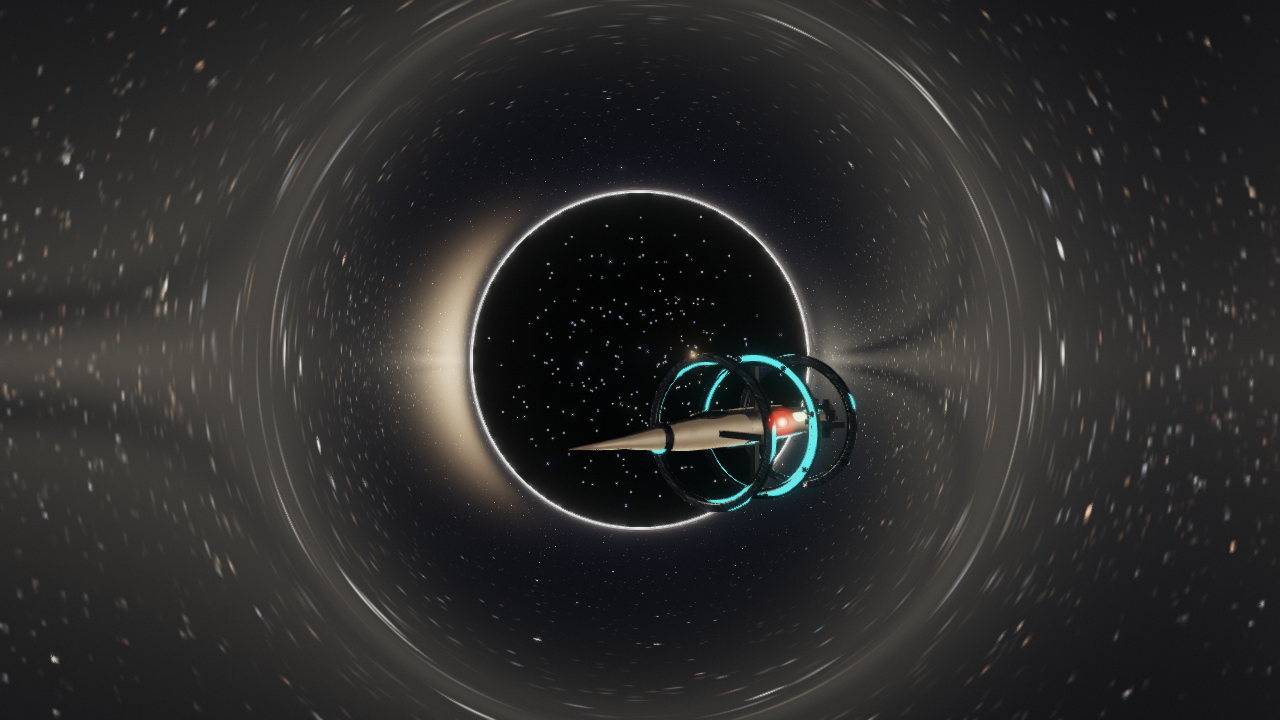
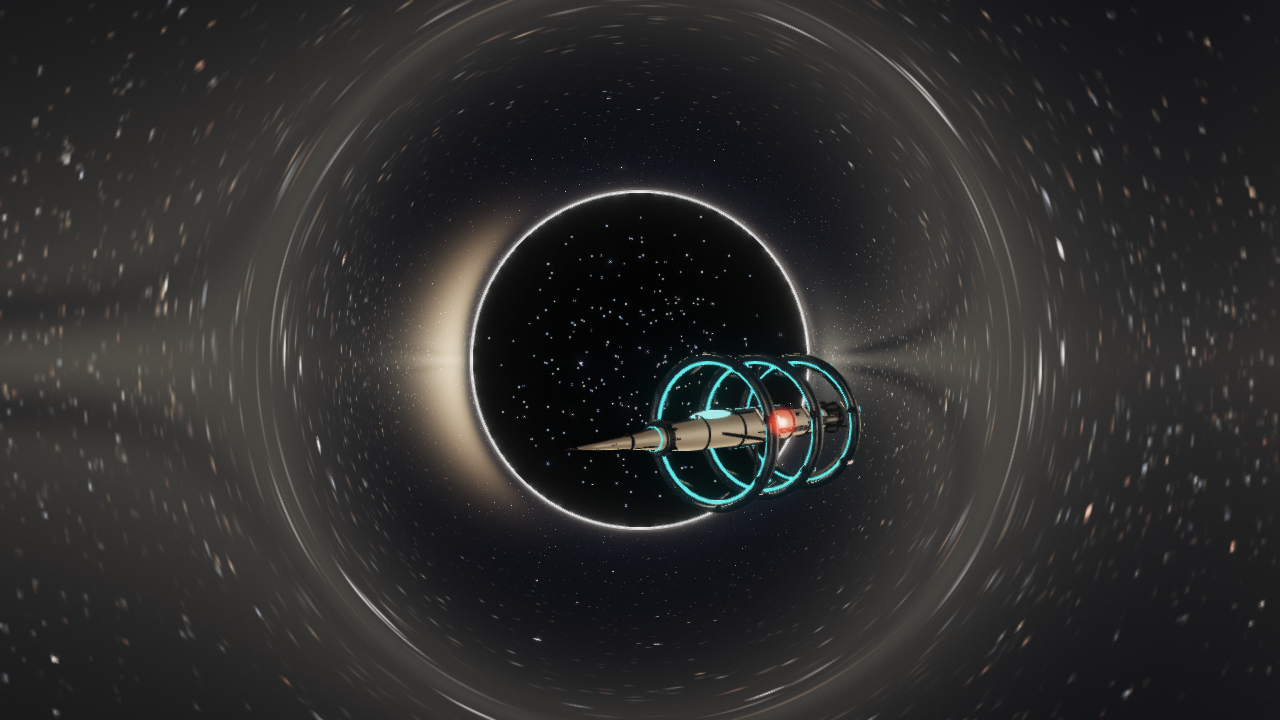
feat(ship): ring ship reference detail pass and stern axis fix
The tri-ring cruiser was the last hull still reading flat: 10 962 triangles of
bare torus and needle, with the propulsion cluster aimed the wrong way.

- fix #199: main nozzle, plasma disc and all six attitude bells used
  rotation=(pi/2,0,0), which points them down, not aft - same defect class as
  #189, which never covered this script
- add ring_ship_details(): coil collars, 16 windings and 8 braking calipers per
  ring with capped emitter heads, hull banding and keel stringers, pitot with
  sensor louvres and mast, deflector lip with 10 focusing vanes and a field
  ring, cupola ribs/sill/visor, conduit clamps, a 10-fin ventral radiator
  field, and a stern with gimbal, feed lines, CTV rings, tail plug, OMS pods,
  RCS bells and an aft mast. 10 962 -> 27 206 triangles
- enforce the shader coupling: ship.vert spins only vertices beyond r=0.372
  inside three z-slabs, while normalization divides by the bounding-box
  length, so nose or stern overhang silently slides the rings out of their
  spin bands. The generator now recomputes each ring's normalized z after
  centering and raises if it left its slab; the pitot and tail plug were
  pulled back inside the original hull extent to keep the mapping stable
- four static checks: detail pass wired, nozzle axis fixed, guard present,
  guard ranges pinned against the shader

Verified: generator prints "Ring spin slabs: all three rings inside their
shader bands"; an independent measurement of the exported OBJ finds 14 476
[…]

Changed region(s): [[0.5, 0.4889, 0.6875, 0.7028]]

diff --git a/blender/scripts/generate_ring_ship.py b/blender/scripts/generate_ring_ship.py
@@ -265,6 +265,211 @@ def bake_pbr_set(obj, base_path, tex_size=2048):
 # ---------------------------------------------------------------------------
 # Geometry Builder: Ring Ship (Style 1)
 # ---------------------------------------------------------------------------
+# ---------------------------------------------------------------------------
+# Detail pass primitives (same contract as generate_ships.py after #189).
+# Frame of this hull: -Z is the nose, +Z aft, +Y up, X spanwise. Cylinder, cone
+# and torus primitives are born on their local Z, so rot=(0,0,0) already aims
+# them fore-aft; (half,0,0) tips them DOWN, (-half,0,0) UP, (0,+-half,0) out
+# the sides.
+#
+# Ring Ship has one constraint the other hulls do not: shaders/ship.vert spins
+# only vertices with length(xy) >= 0.372, and only inside three z-slabs of the
+# NORMALIZED mesh ([-0.36,-0.10], [0.14,0.31], [0.57,0.76]) - the three rings.
+# Anything outboard of r=0.366 therefore has to stay within +-0.09 of a ring
+# centre (-0.44, 0.0, +0.44 pre-normalize) or the ring tears; everything else
+# must stay inboard of 0.366 so the static pylons keep their grip.
+# ---------------------------------------------------------------------------
+def r_box(name, loc, dims, rot=(0.0, 0.0, 0.0), mat=None, parts=None):
+    bpy.ops.mesh.primitive_cube_add(size=1.0, location=loc)
+    o = bpy.context.active_object
+    o.name = name
+    o.scale = dims
+    if any(rot):
+        o.rotation_euler = rot
+    bpy.ops.object.transform_apply(scale=True, rotation=True)
+    if mat:
+        o.data.materials.append(mat)
+    if parts is not None:
+        parts.append(o)
+    return o
+
+
+def r_cyl(name, loc, r, depth, rot=(0.0, 0.0, 0.0), segs=24, mat=None, parts=None):
+    bpy.ops.mesh.primitive_cylinder_add(vertices=segs, radius=r, depth=depth,
+                                        location=loc, rotation=rot)
+    o = bpy.context.active_object
+    o.name = name
+    if mat:
+        o.data.materials.append(mat)
+    if parts is not None:
+        parts.append(o)
+    return o
+
+
+def r_cone(name, loc, r1, r2, depth, rot=(0.0, 0.0, 0.0), segs=24, mat=None, parts=None):
+    bpy.ops.mesh.primitive_cone_add(vertices=segs, radius1=r1, radius2=r2,
+                                    depth=depth, location=loc, rotation=rot)
+    o = bpy.context.active_object
+    o.name = name
+    if mat:
+        o.data.materials.append(mat)
+    if parts is not None:
+        parts.append(o)
+    return o
+
+
+def r_torus(name, loc, major, minor, rot=(0.0, 0.0, 0.0), segs=48, sides=12,
+            mat=None, parts=None):
+    bpy.ops.mesh.primitive_torus_add(major_radius=major, minor_radius=minor,
+                                     major_segments=segs, minor_segments=sides,
+                                     location=loc, rotation=rot)
+    o = bpy.context.active_object
+    o.name = name
+    if mat:
+        o.data.materials.append(mat)
+    if parts is not None:
+        parts.append(o)
+    return o
+
+
+def ring_ship_details(parts, M):
+    """Reference pass for the Alcubierre tri-ring cruiser: hull banding, sensor
+    and deflector hardware, cupola framing, conduit clamps, radiator field,
+    per-ring coil and braking hardware and a full stern cluster. Everything is
+    real geometry, so the silhouette survives without textures."""
+    hull, accent, coil = M["hull"], M["accent"], M["coil"]
+    emitter, cockpit, engine, plasma = M["emitter"], M["cockpit"], M["engine"], M["plasma"]
+    half = math.pi / 2
+    ring_z = (-0.44, 0.0, 0.44)
+
+    # 1. Fuselage banding and keel stringers (inboard, static)
+    for z, r in ((-1.05, 0.036), (-0.80, 0.070), (-0.55, 0.094), (-0.25, 0.104),
+                 (0.00, 0.107), (0.25, 0.104), (0.45, 0.097), (0.60, 0.090),
+                 (0.72, 0.078)):
+        r_torus(f"RingArt_band_{z:+.2f}", (0.0, 0.0, z), r + 0.004, 0.006,
+                segs=32, sides=6, mat=accent, parts=parts)
+    for side in (-1.0, 1.0):
+        r_box(f"RingArt_keel_{side:+.0f}", (side * 0.086, 0.0, 0.02),
+              (0.006, 0.012, 1.10), mat=accent, parts=parts)
+
+    # 2. Nose: pitot boom, sensor louvres, forward mast
+    # The pitot stays inside the original nose tip (z=-1.42) and the stern plug
+    # inside the old aux-plasma extent (z=+0.849): normalization divides by the
+    # bounding-box length, so detail that sticks out at either end slides all
+    # three rings out of the spin slabs in shaders/ship.vert. Checked below.
+    r_cyl("RingArt_pitot", (0.0, 0.0, -1.30), 0.006, 0.24, segs=10, mat=accent, parts=parts)
+    r_cone("RingArt_pitotTip", (0.0, 0.0, -1.40), 0.006, 0.001, 0.04,
+           rot=(math.pi, 0.0, 0.0), segs=10, mat=hull, parts=parts)
+    for k, z in enumerate((-1.16, -1.02, -0.90)):
+        r_box(f"RingArt_sensorVane_{k}", (0.0, 0.0, z), (0.052 - k * 0.006, 0.004, 0.030),
+              mat=accent, parts=parts)
+    for side in (-1.0, 1.0):
+        r_cyl(f"RingArt_noseAnt_{side:+.0f}", (side * 0.030, -0.030, -0.98), 0.004, 0.16,
+              rot=(0.0, side * 0.30, 0.0), segs=8, mat=accent, parts=parts)
+
+    # 3. Forward deflector collar: lip, vanes and focusing ring
+    r_torus("RingArt_deflLip", (0.0, 0.0, -0.855), 0.086, 0.010, segs=28, sides=8,
+            mat=coil, parts=parts)
+    for k in range(10):
+        a = k * math.tau / 10
+        r_box(f"RingArt_deflVane_{k}", (0.082 * math.cos(a), 0.082 * math.sin(a), -0.80),
+              (0.020, 0.006, 0.050), rot=(0.0, 0.0, a), mat=accent, parts=parts)
+    r_torus("RingArt_deflField", (0.0, 0.0, -0.88), 0.062, 0.005, segs=24, sides=6,
+            mat=emitter, parts=parts)
+
+    # 4. Cockpit cupola: frame ribs, sill and sunshade
+    for k, z in enumerate((-0.50, -0.42, -0.34, -0.28)):
+        r_box(f"RingArt_cupolaRib_{k}", (0.0, 0.086, z), (0.058 - k * 0.004, 0.040, 0.006),
+              mat=accent, parts=parts)
+    r_box("RingArt_cupolaSill", (0.0, 0.062, -0.545), (0.070, 0.020, 0.010),
+          mat=hull, parts=parts)
+    r_box("RingArt_cupolaVisor", (0.0, 0.090, -0.575), (0.062, 0.030, 0.008),
+          rot=(0.42, 0.0, 0.0), mat=accent, parts=parts)
+
+    # 5. Spine conduit clamps and ventral radiator field (inboard, static)
+    for side_y in (1.0, -1.0):
+        tag = "D" if side_y > 0 else "V"
+        for k, z in enumerate((-0.24, -0.08, 0.08, 0.24)):
+            r_box(f"RingArt_conduitClamp_{tag}_{k}", (0.0, side_y * 0.112, z),
+                  (0.034, 0.008, 0.014), mat=accent, parts=parts)
+    for side in (-1.0, 1.0):
+        for k in range(5):
+            z = -0.10 + k * 0.11
+            r_box(f"RingArt_radiator_{side:+.0f}_{k}", (side * 0.150, -0.020, z),
+                  (0.130, 0.004, 0.070), rot=(0.0, side * 0.18, 0.0), mat=accent,
+                  parts=parts)
+            r_box(f"RingArt_radFin_{side:+.0f}_{k}", (side * 0.150, -0.020, z),
+                  (0.130, 0.014, 0.006), rot=(0.0, side * 0.18, 0.0), mat=hull,
+                  parts=parts)
+
+    # 6. Per-ring hardware. Coil collars, braking calipers and node caps all sit
+    # within +-0.09 of the ring centre so the shader spin band keeps them rigid.
+    for r_idx, rz in enumerate(ring_z):
+        tag = f"R{r_idx + 1}"
+        r_torus(f"RingArt_coilCollarA_{tag}", (0.0, 0.0, rz - 0.030), 0.42, 0.014,
+                segs=56, sides=8, mat=coil, parts=parts)
+        r_torus(f"RingArt_coilCollarB_{tag}", (0.0, 0.0, rz + 0.030), 0.42, 0.014,
+                segs=56, sides=8, mat=coil, parts=parts)
+        for k in range(16):
+            a = k * math.tau / 16
+            r_box(f"RingArt_coilWinding_{tag}_{k}",
+                  (0.42 * math.cos(a), 0.42 * math.sin(a), rz),
+                  (0.014, 0.014, 0.062), rot=(0.0, 0.0, a), mat=accent, parts=parts)
+        # Braking calipers grip the ring from inside at r=0.358 (< 0.366 static)
+        for k in range(8):
+            a = k * math.tau / 8 + math.tau / 16
+            r_box(f"RingArt_brake_{tag}_{k}",
+                  (0.358 * math.cos(a), 0.358 * math.sin(a), rz),
+                  (0.026, 0.026, 0.020), rot=(0.0, 0.0, a), mat=hull, parts=parts)
+        # Node caps turn each bare cylinder into a tuned emitter head
+        for k in range(8):
+            a = k * math.pi / 4.0
+            nx, ny = 0.42 * math.cos(a), 0.42 * math.sin(a)
+            r_cyl(f"RingArt_nodeCap_{tag}_{k}", (nx, ny, rz + 0.038), 0.020, 0.012,
+                  segs=14, mat=emitter, parts=parts)
+            r_cyl(f"RingArt_nodeBase_{tag}_{k}", (nx, ny, rz - 0.038), 0.022, 0.010,
+                  segs=14, mat=accent, parts=parts)
+
+    # 7. Aft ring service bridge and strobes (inside slab 3, so it spins with R3)
+    r_torus("RingArt_aftServiceRing", (0.0, 0.0, 0.44), 0.376, 0.006,
+            segs=48, sides=6, mat=accent, parts=parts)
+    for side in (-1.0, 1.0):
+        r_box(f"RingArt_strobe_{side:+.0f}", (side * 0.435, 0.0, 0.485),
+              (0.014, 0.020, 0.010), mat=plasma, parts=parts)
+
+    # 8. Stern cluster: gimbal, feed lines, CTV rings, tail cone and RCS
+    r_torus("RingArt_mainGimbal", (0.0, 0.0, 0.74), 0.070, 0.008, segs=24, sides=6,
+            mat=accent, parts=parts)
+    for k in range(3):
+        a = k * math.tau / 3
+        r_cyl(f"RingArt_feedLine_{k}", (0.052 * math.cos(a), 0.052 * math.sin(a), 0.70),
+              0.010, 0.16, segs=10, mat=accent, parts=parts)
+    for k in range(6):
+        a = k * math.tau / 6
+        cx, cy = 0.088 * math.cos(a), 0.088 * math.sin(a)
+        r_torus(f"RingArt_auxCTV_{k}", (cx, cy, 0.845), 0.034, 0.004, segs=16, sides=6,
+                mat=accent, parts=parts)
+    r_cone("RingArt_tailPlug", (0.0, 0.0, 0.80), 0.020, 0.040, 0.10, segs=18,
+           mat=engine, parts=parts)
+    for side in (-1.0, 1.0):
+        r_cyl(f"RingArt_omsPod_{side:+.0f}", (side * 0.115, 0.0, 0.66), 0.028, 0.14,
+              segs=16, mat=hull, parts=parts)
+        r_cone(f"RingArt_omsBell_{side:+.0f}", (side * 0.115, 0.0, 0.76), 0.014, 0.024,
+               0.06, segs=14, mat=engine, parts=parts)
+    for z in (0.30, 0.52):
+        for side in (-1.0, 1.0):
+            r_cone(f"RingArt_rcs_{z:+.2f}_{side:+.0f}", (side * 0.098, 0.060, z),
+                   0.008, 0.016, 0.030, rot=(-half, 0.0, 0.0), segs=10, mat=engine,
+                   parts=parts)
+    r_cyl("RingArt_aftMast", (0.0, 0.118, 0.58), 0.005, 0.14, rot=(-half, 0.0, 0.0),
+          segs=8, mat=accent, parts=parts)
+
+    # 9. Formation lights along the spine and ventral strip
+    for z in (-0.30, 0.02, 0.34):
+        r_box(f"RingArt_formationD_{z:+.2f}", (0.0, 0.122, z), (0.050, 0.004, 0.010),
+              mat=plasma, parts=parts)
+
+
 def build_ring_ship():
     print("\n================ Building Ring Ship (Style 1) ================")
     bpy.ops.wm.read_factory_settings(use_empty=True)
@@ -439,14 +644,17 @@ def build_ring_ship():
 
     # 7. Stern Sublight Propulsion Cluster
     # 7a. Central Main Engine Nozzle
-    bpy.ops.mesh.primitive_cone_add(vertices=24, radius1=0.065, radius2=0.095, depth=0.18, location=(0.0, 0.0, 0.82), rotation=(math.pi/2, 0.0, 0.0))
+    # Identity rotation: the fuselage length is the Z axis (nose at -Z), so a
+    # bell born on local Z already points aft. The old rotation=(pi/2,0,0) aimed
+    # it down instead - same defect class as #189, caught here by #199.
+    bpy.ops.mesh.primitive_cone_add(vertices=24, radius1=0.065, radius2=0.095, depth=0.18, location=(0.0, 0.0, 0.82))
     main_noz = bpy.context.active_object
     main_noz.name = "Ring_MainNozzle"
     main_noz.data.materials.append(m_engine)
     parts.append(main_noz)
 
     # Main Engine Plasma Disc
-    bpy.ops.mesh.primitive_cylinder_add(vertices=24, radius=0.058, depth=0.02, location=(0.0, 0.0, 0.88), rotation=(math.pi/2, 0.0, 0.0))
+    bpy.ops.mesh.primitive_cylinder_add(vertices=24, radius=0.058, depth=0.02, location=(0.0, 0.0, 0.88))
     main_pla = bpy.context.active_object
     main_pla.name = "Ring_MainPlasma"
     main_pla.data.materials.append(m_plasma)
@@ -458,7 +666,7 @@ def build_ring_ship():
         cx = 0.088 * math.cos(a)
         cy = 0.088 * math.sin(a)
         
-        bpy.ops.mesh.primitive_cone_add(vertices=16, radius1=0.022, radius2=0.034, depth=0.12, location=(cx, cy, 0.78), rotation=(math.pi/2, 0.0, 0.0))
+        bpy.ops.mesh.primitive_cone_add(vertices=16, radius1=0.022, radius2=0.034, depth=0.12, location=(cx, cy, 0.78))
         aux_noz = bpy.context.active_object
         aux_noz.name = f"Ring_AuxNozzle_{k}"
         aux_noz.data.materials.append(m_engine)
@@ -470,6 +678,11 @@ def build_ring_ship():
         aux_pla.scale = (1.0, 1.0, 0.2)
         aux_pla.data.materials.append(m_plasma)
         parts.append(aux_pla)
+
+    # 8. Reference-driven detail pass (#197)
+    ring_ship_details(parts, {"hull": m_hull, "accent": m_accent, "coil": m_coil,
+                              "emitter": m_emitter, "cockpit": m_cockpit,
+                              "engine": m_engine, "plasma": m_plasma})
 
     # -----------------------------------------------------------------------
     # Join All Parts into Unified Hero Mesh
@@ -504,6 +717,23 @@ def build_ring_ship():
     center = Vector(((min_x + max_x) * 0.5, (min_y + max_y) * 0.5, (min_z + max_z) * 0.5))
     ship.location = -center
     bpy.ops.object.transform_apply(location=True, rotation=True, scale=True)
+
+    # Spin-band guard. shaders/ship.vert rotates only vertices with
+    # length(xy) >= 0.372 and only inside three z-slabs of THIS normalized mesh.
+    # Normalization divides by the bounding-box length, so any detail that
+    # extends the nose or stern slides the rings out of their slabs and the
+    # drive silently stops spinning - or tears, at the smoothstep edges. Fail
+    # the build here rather than shipping a ring ship that only looks right
+    # in a still frame.
+    spin_slabs = ((-0.36, -0.10), (0.14, 0.31), (0.57, 0.76))
+    for rz, slab in zip(ring_positions, spin_slabs):
+        z_norm = rz * scale_fac - center.z
+        if not (slab[0] <= z_norm <= slab[1]):
+            raise RuntimeError(
+                f"ring at pre-normalize z={rz:+.2f} lands at z={z_norm:+.3f}, "
+                f"outside shader spin slab {slab}. Detail geometry has moved the "
+                f"hull bounding box; pull it back inside nose/stern limits.")
+    print("Ring spin slabs: all three rings inside their shader bands.", flush=True)
 
     # Smooth shading and crisp edge split
     for poly in ship.data.polygons:

diff --git a/CHANGELOG.md b/CHANGELOG.md
@@ -24,7 +24,12 @@
 - RU: Корпуса игрока пересобраны детальным проходом по референсам - Дарт вырос с 1 774 до 9 110 треугольников, Шаттл с 2 698 до 11 598. У перехватчика появились усиливающие ленты фюзеляжа, честная плитка на днище, сплиттеры и кромки воздухозаборников, двойные гондолы с веером, лепестками сопла и CTV-кольцами, предкрылки, закрылки с петлями, аэродинамические щитки и законцовки, ракеты на пилонах, рёбра фонаря с HUD, креслом и дугой безопасности, люки шахматок, кластеры РКС, питот-трубка и хвостовое кольцо; у шаттла - поле TPS-плитки со швами, сенсорный обтекатель, импосты и козырёк рубки, грузовой отсек с рельсами, контейнерами, манипулятором, швартовными болтами и полезной нагрузкой, раскрытые радиаторы с оребрением, блок из трёх главных сопел с карданными кольцами и питающими трубами плюс OMS-модули, элевон-щитки, кили носовой части, закрылок хвоста, шасси, поручни, иллюминаторы и камеры.
 - EN: Fix - the ship generators build hulls with -Z forward and +Y up, but cylinder, cone and torus primitives are born on their local Z, so the `rotation=(pi/2, 0, 0)` used for engine hardware aimed it down instead of aft. Every nozzle, nacelle, intake cowl, pitot boom, missile and ring in both the base hulls and the new detail pass was standing perpendicular to the flight direction - in the shipped Dart and Shuttle too, not only in the new geometry. All of them are now on the fore-aft axis, the dorsal airlock ring is the one part that legitimately stays vertical, and the convention is documented in the script and pinned by two new static checks (issue #189).
 - RU: Исправление - генераторы кораблей строят корпуса с носом по -Z и верхом по +Y, но примитивы Blender рождаются вдоль локальной Z, поэтому `rotation=(pi/2, 0, 0)` для двигателей разворачивал их вниз, а не назад. Сопла, гондолы, набегающие кожухи, питот-трубки, ракеты и кольца торчали перпендикулярно направлению полёта - и в выпущенных Дарте и Шаттле тоже, а не только в новой геометрии. Теперь всё это на продольной оси; вертикальным корректно остаётся только кольцо шлюза на верхней палубе; конвенция описана в скрипте и закреплена двумя новыми статическими проверками (issue #189).
+- EN: Ring Ship got the same reference detail pass - 10 962 to 27 206 triangles. The tri-ring drive now carries coil collars, sixteen windings and eight braking calipers per ring with capped emitter heads, the needle fuselage got reinforcement banding and keel stringers, the nose a pitot boom with sensor louvres and mast, the deflector collar a lip, ten focusing vanes and a field ring, the cupola ribs, a sill and a sunshade, the spine conduit clamps, the belly a ten-fin radiator field, and the stern a gimbal ring, three feed lines, six CTV rings, a tail plug, OMS pods, RCS bells and an aft mast. Along the way the stern cluster turned out to have the same axis defect as #189 - main nozzle, plasma disc and all six attitude bells were rotated onto the vertical, so they pointed down instead of aft (#199).
+- RU: Ring Ship получил тот же референс-проход - с 10 962 до 27 206 треугольников. На трёх кольцах варпа теперь обмоточные бандажи, по шестнадцать обмоток и восемь тормозных суппортов с заглушками излучателей; на игольчатом фюзеляже - усиливающие ленты и киль-стрингеры; на носу питот-трубка с сенсорными ламелями и мачтой; на воротном дефлекторе губка, десять фокусирующих ламелей и поле; на куполе рёбра, порог и козырёк; на хребте стяжки трубопроводов; на днище десяти-рёберный радиаторный пакет; на корме карданное кольцо, три питающие трубы, шесть CTV-колец, хвостовой стакан, OMS-модули, раструбы РКС и кормовая мачта. Попутно выяснилось, что двигательный кластер страдал тем же дефектом осей, что и в #189: главное сопло, диск плазмы и все шесть векторных раструбов были повёрнуты на вертикаль и смотрели вниз, а не назад (#199).
+- EN: Constraint now enforced in code: `shaders/ship.vert` rotates only vertices beyond r=0.372 and only inside three z-slabs of the normalized mesh, while the generator normalizes by the bounding-box length - so detail sticking out of the nose or stern silently slides the rings out of their spin bands. The generator now recomputes each ring's normalized position after centering and fails the build if it leaves its slab; a matching static check pins the three slab ranges against the shader.
+- RU: Ограничение теперь зашито в код: `shaders/ship.vert` вращает только вершины дальше r=0.372 и только внутри трёх z-щелей нормализованной меши, а генератор нормализует модель по длине габарита - из-за чего деталь, торчащая из носа или кормы, незаметно выводит кольца из вращаемых щелей. Генератор после центрирования заново вычисляет позицию каждого кольца и валит сборку, если кольцо вышло за щель; параллельное статическое условие держит три диапазона щелей в сгибке с шейдером.
 - Gates / Гейты: MSVC Release build OK, ctest 23/23 PASS с активными `assert()`, статические проверки расширены проверками выполнения ctest в CI и снятия NDEBUG для тестовых таргетов; `--capture-colony` 4/4 PASS (structures 9/18/41/82, centre-changed 14325/71155/134416/121033), `--capture-fleet` 7/7 PASS, `--capture-menu` PASS (корабль пиксельно-статичен), плюс 3 новых статических условия на civic/коммунальные ассеты, отсечение столицы и роли атласа и 2 новых условия на осевую конвенцию корпусов (#189).
+- Gates / Гейты (ring_ship, #197/#199): генерация проходит guard щелей (`Ring spin slabs: all three rings inside their shader bands`), независимый замер экспортированного OBJ - 14 476 вершин дальше r=0.372 и ни одной вне трёх щелей, `--screenshot-all` отдаёт обновлённый `ship_ring.png` с целыми кольцами; четыре новых статических условия (обвес подключён, оси сопел исправлены, guard в генераторе, guard совпадает с шейдером) вычисляются в True.
 
 ## 5.0.5 - 2026-11-16
 
